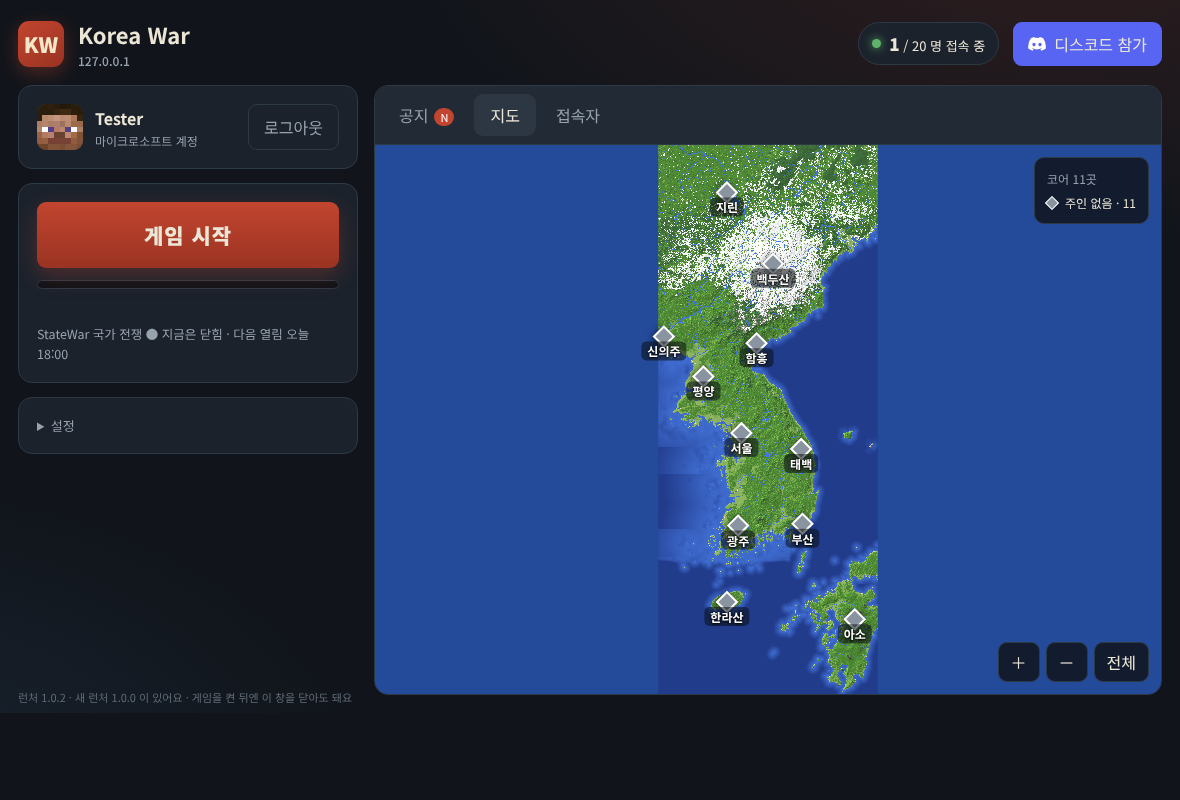
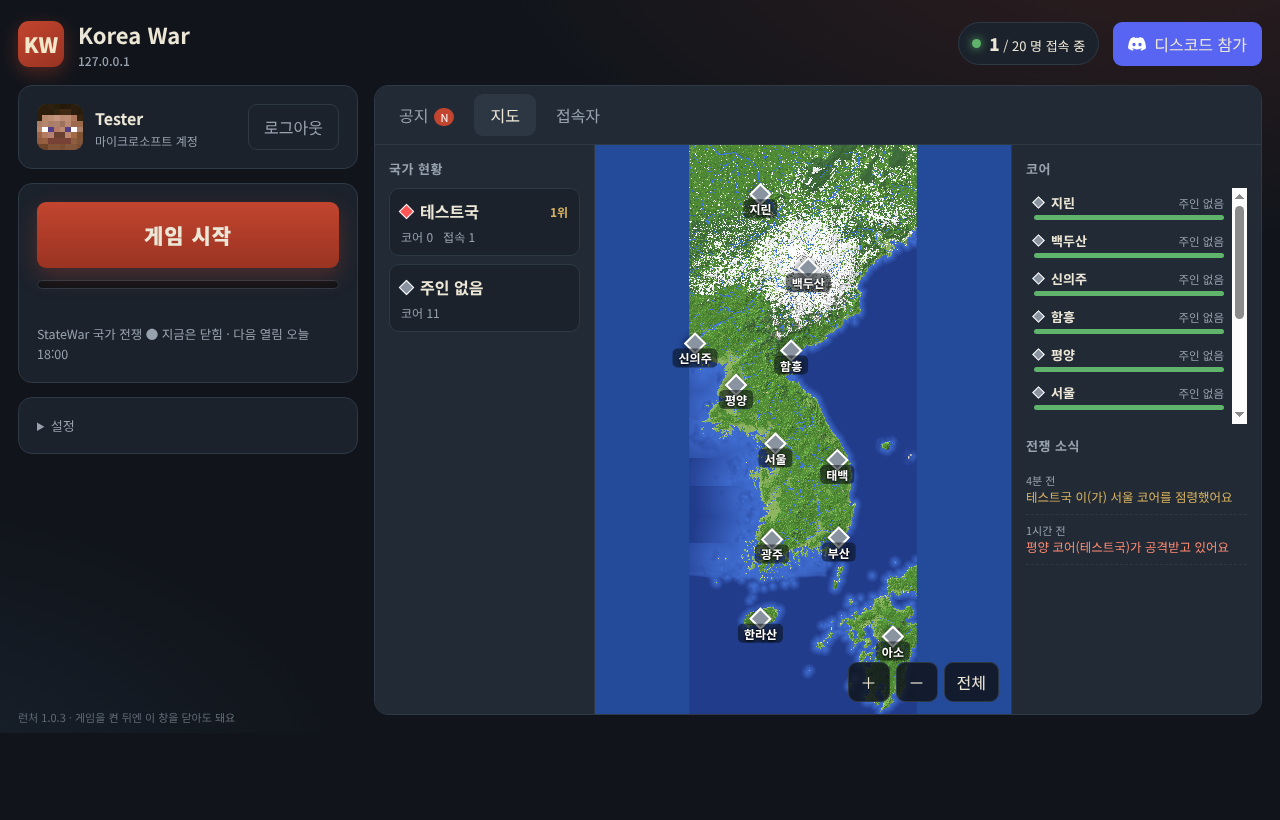
Launcher 1.0.3: nation standings, core list, war feed beside the map
Claude-Session: https://claude.ai/code/session_01RxMUsZayEcA6wpHDDfT3hb

diff --git a/web/index.html b/web/index.html
@@ -8,7 +8,7 @@
 <style>
 :root{--bg:#11151b;--panel:#1b222c;--panel2:#212a35;--line:#2e3946;--ink:#ece6d6;--mute:#97a2ae;--red:#c2452f;--red2:#9a3322;--gold:#d9b25f;--green:#5fb36b;--blurple:#5865f2}
 *{box-sizing:border-box}
-html{background:var(--bg)}
+html{background:var(--bg);color-scheme:dark}
 body{margin:0;min-height:100vh;color:var(--ink);font-family:"Pretendard","Apple SD Gothic Neo","Malgun Gothic","Noto Sans KR","Noto Sans CJK KR",system-ui,sans-serif;
   background:radial-gradient(1100px 520px at 90% -10%,rgba(194,69,47,.17),transparent 60%),radial-gradient(800px 500px at -10% 110%,rgba(79,134,198,.12),transparent 60%),var(--bg);background-attachment:fixed}
 .app{display:grid;grid-template-columns:340px 1fr;grid-template-rows:auto 1fr;gap:16px;padding:18px;height:100vh}
@@ -48,8 +48,25 @@ select,input[type=text]{font:inherit;background:#0e1217;color:var(--ink);border:
 .notice .d{color:var(--mute);font-size:12px}.notice h3{margin:3px 0 6px;font-size:16px}.notice p{margin:0;line-height:1.65;font-size:14px;white-space:pre-wrap;color:#d8d2c3}
 .empty{color:var(--mute);font-size:14px;padding:30px;text-align:center}
 /* 지도 */
-#mapPane{padding:0;position:relative;overflow:hidden;background:#244a9a;cursor:grab}
-#mapPane.drag{cursor:grabbing}
+#mapPane{padding:0;display:grid;grid-template-columns:220px 1fr 250px;overflow:hidden}
+#mapPane[hidden]{display:none}
+#mapBox{position:relative;overflow:hidden;background:#244a9a;cursor:grab}
+#mapBox.drag{cursor:grabbing}
+.side{overflow:auto;padding:14px;background:var(--panel2);border-right:1px solid var(--line)}
+.side:last-child{border-right:0;border-left:1px solid var(--line)}
+.side.right{display:flex;flex-direction:column;overflow:hidden}.side .scroll{flex:1;min-height:0;overflow:auto}
+.side h4{margin:0 0 10px;font-size:13px;color:var(--mute);font-weight:600;letter-spacing:.5px}
+.nat{background:var(--panel);border:1px solid var(--line);border-radius:10px;padding:10px 11px;margin-bottom:8px}
+.nat .t{display:flex;align-items:center;gap:8px;font-weight:700}.nat .t b{width:11px;height:11px;transform:rotate(45deg);border:1px solid #fff}
+.nat .r{color:var(--mute);font-size:12px;margin-top:5px;display:flex;gap:10px}
+.nat .rank{margin-left:auto;color:var(--gold);font-size:12px}
+.ci{display:flex;flex-direction:column;gap:3px;padding:5px 8px;border-radius:8px;cursor:pointer;margin-bottom:1px}
+.ci:hover{background:#2c3743}
+.ci .t{display:flex;align-items:center;gap:8px;font-size:13px;font-weight:600}.ci .t b{width:9px;height:9px;transform:rotate(45deg);border:1px solid #fff;flex:none}
+.ci .t small{margin-left:auto;color:var(--mute);font-weight:400;font-size:11.5px}
+.hp{height:5px;background:#0e1217;border-radius:9px;overflow:hidden}.hp i{display:block;height:100%;background:var(--green)}
+.ev{font-size:12.5px;line-height:1.5;padding:7px 0;border-bottom:1px dashed var(--line)}
+.ev .w{color:var(--mute);font-size:11px}.ev.capture .x{color:var(--gold)}.ev.attack .x{color:#ff8a72}
 #world{position:absolute;left:0;top:0;transform-origin:0 0}
 #world img{display:block;image-rendering:pixelated;user-select:none;-webkit-user-drag:none}
 .core{position:absolute;transform:translate(-50%,-50%);pointer-events:auto}
@@ -110,10 +127,13 @@ footer{position:fixed;left:18px;bottom:8px;color:#5f6a76;font-size:11px}
     </div>
     <div class="pane" id="notice"></div>
     <div class="pane" id="mapPane" hidden>
-      <div id="world"><img id="mapimg" alt=""><div id="marks"></div></div>
-      <div class="legend" id="legend"></div>
-      <div class="mapbtns"><button id="zin">＋</button><button id="zout">－</button><button id="zfit">전체</button></div>
-      <div id="tip"></div>
+      <aside class="side" id="natPanel"><h4>국가 현황</h4><div id="nat"></div></aside>
+      <div id="mapBox">
+        <div id="world"><img id="mapimg" alt=""><div id="marks"></div></div>
+        <div class="mapbtns"><button id="zin">＋</button><button id="zout">－</button><button id="zfit">전체</button></div>
+        <div id="tip"></div>
+      </div>
+      <aside class="side right"><h4>코어</h4><div id="coreList" class="scroll"></div><h4 style="margin-top:12px">전쟁 소식</h4><div id="feed" class="scroll"></div></aside>
     </div>
     <div class="pane" id="players" hidden></div>
   </div>
@@ -175,18 +195,18 @@ async function infoTick(){
 let view={x:0,y:0,k:1}, fitted=false;
 function apply(){$("world").style.transform=`translate(${view.x}px,${view.y}px) scale(${view.k})`;document.querySelectorAll(".core").forEach(m=>m.style.transform=`translate(-50%,-50%) scale(${1/view.k})`)}
 function fitMap(force){
-  const img=$("mapimg"), pane=$("mapPane"); if(!img.naturalWidth||pane.hidden) return; if(fitted&&!force) return;
+  const img=$("mapimg"), pane=$("mapBox"); if(!img.naturalWidth||$("mapPane").hidden) return; if(fitted&&!force) return;
   const k=Math.min(pane.clientWidth/img.naturalWidth,pane.clientHeight/img.naturalHeight);
   view={k,x:(pane.clientWidth-img.naturalWidth*k)/2,y:(pane.clientHeight-img.naturalHeight*k)/2}; fitted=true; apply();
 }
 $("mapimg").onload=()=>{fitted=false;fitMap(true);drawMarks()};
 function zoomAt(f,cx,cy){const nk=Math.max(0.15,Math.min(8,view.k*f));view.x=cx-(cx-view.x)*nk/view.k;view.y=cy-(cy-view.y)*nk/view.k;view.k=nk;apply()}
-$("mapPane").addEventListener("wheel",e=>{e.preventDefault();const r=$("mapPane").getBoundingClientRect();zoomAt(e.deltaY<0?1.2:1/1.2,e.clientX-r.left,e.clientY-r.top)},{passive:false});
+$("mapBox").addEventListener("wheel",e=>{e.preventDefault();const r=$("mapBox").getBoundingClientRect();zoomAt(e.deltaY<0?1.2:1/1.2,e.clientX-r.left,e.clientY-r.top)},{passive:false});
 let drag=null;
-$("mapPane").addEventListener("pointerdown",e=>{if(e.target.closest(".mapbtns,.legend"))return;drag={x:e.clientX,y:e.clientY,vx:view.x,vy:view.y};$("mapPane").classList.add("drag");$("mapPane").setPointerCapture(e.pointerId)});
-$("mapPane").addEventListener("pointermove",e=>{if(!drag)return;view.x=drag.vx+e.clientX-drag.x;view.y=drag.vy+e.clientY-drag.y;apply()});
-$("mapPane").addEventListener("pointerup",()=>{drag=null;$("mapPane").classList.remove("drag")});
-const mid=()=>{const p=$("mapPane");return[p.clientWidth/2,p.clientHeight/2]};
+$("mapBox").addEventListener("pointerdown",e=>{if(e.target.closest(".mapbtns"))return;drag={x:e.clientX,y:e.clientY,vx:view.x,vy:view.y};$("mapBox").classList.add("drag");$("mapBox").setPointerCapture(e.pointerId)});
+$("mapBox").addEventListener("pointermove",e=>{if(!drag)return;view.x=drag.vx+e.clientX-drag.x;view.y=drag.vy+e.clientY-drag.y;apply()});
+$("mapBox").addEventListener("pointerup",()=>{drag=null;$("mapBox").classList.remove("drag")});
+const mid=()=>{const p=$("mapBox");return[p.clientWidth/2,p.clientHeight/2]};
 $("zin").onclick=()=>zoomAt(1.5,...mid()); $("zout").onclick=()=>zoomAt(1/1.5,...mid()); $("zfit").onclick=()=>fitMap(true);
 window.addEventListener("resize",()=>fitMap(true));
 function drawMarks(col){
@@ -197,12 +217,28 @@ function drawMarks(col){
     return `<div class="core" data-i="${i}" style="left:${x}px;top:${y}px"><i style="background:${cl}"></i><span>${esc(c.name)}</span></div>`}).join("");
   document.querySelectorAll(".core").forEach(m=>{
     m.onpointerenter=e=>{const c=info.cores[+m.dataset.i];$("tip").style.display="block";$("tip").innerHTML=`<b>${esc(c.name)}</b><br>주인: ${esc(c.owner||"없음")}<br>체력: ${c.hp} / ${c.maxHp}<br>좌표: ${c.x}, ${c.z}`};
-    m.onpointermove=e=>{const r=$("mapPane").getBoundingClientRect();$("tip").style.left=(e.clientX-r.left+14)+"px";$("tip").style.top=(e.clientY-r.top+14)+"px"};
+    m.onpointermove=e=>{const r=$("mapBox").getBoundingClientRect();$("tip").style.left=(e.clientX-r.left+14)+"px";$("tip").style.top=(e.clientY-r.top+14)+"px"};
     m.onpointerleave=()=>$("tip").style.display="none";
   });
-  const owners={}; (info.cores||[]).forEach(c=>{const k=c.owner||"";owners[k]=(owners[k]||0)+1});
-  $("legend").innerHTML=`<div style="color:var(--mute);margin-bottom:2px">코어 ${(info.cores||[]).length}곳</div>`+Object.keys(owners).sort().map(k=>`<div><b style="background:${k?(col[k]||"#ccc"):"#8a94a0"}"></b>${esc(k||"주인 없음")} · ${owners[k]}</div>`).join("");
+  drawSides(col);
   apply();
+}
+// ---------------- 양옆: 국가 현황 · 코어 목록 · 전쟁 소식
+function ago(t){const m=Math.floor((Date.now()-t)/60000);return m<1?"방금":m<60?m+"분 전":m<1440?Math.floor(m/60)+"시간 전":Math.floor(m/1440)+"일 전"}
+function focusCore(i){const c=info.cores[i],b=info.bounds,img=$("mapimg");if(!c||!img.naturalWidth)return;const p=$("mapBox"),k=Math.max(view.k,1.2);
+  const x=(c.x-b.minX)/b.width*img.naturalWidth,y=(c.z-b.minZ)/b.height*img.naturalHeight;view={k,x:p.clientWidth/2-x*k,y:p.clientHeight/2-y*k};apply();
+  const m=document.querySelector(`.core[data-i="${i}"] i`);if(m){m.animate([{transform:"rotate(45deg) scale(1)"},{transform:"rotate(45deg) scale(2.2)"},{transform:"rotate(45deg) scale(1)"}],{duration:700,iterations:2})}}
+function drawSides(col){
+  const cores=info.cores||[], ps=info.players||[];
+  const nat=(info.nations||[]).map(n=>({n:n.name,c:n.color,cores:cores.filter(x=>x.owner===n.name).length,on:ps.filter(p=>p.nation===n.name).length}));
+  nat.sort((a,b)=>b.cores-a.cores||b.on-a.on);
+  const free=cores.filter(x=>!x.owner).length;
+  $("nat").innerHTML=(nat.length?nat.map((n,i)=>`<div class="nat"><div class="t"><b style="background:${n.c}"></b>${esc(n.n)}<span class="rank">${i+1}위</span></div><div class="r"><span>코어 ${n.cores}</span><span>접속 ${n.on}</span></div></div>`).join(""):`<div class="note">아직 국가가 없어요</div>`)
+    +`<div class="nat"><div class="t"><b style="background:#8a94a0"></b>주인 없음</div><div class="r"><span>코어 ${free}</span></div></div>`;
+  $("coreList").innerHTML=cores.map((c,i)=>({c,i})).sort((a,b)=>(a.c.owner||"~").localeCompare(b.c.owner||"~")).map(({c,i})=>{const cl=c.owner?(col[c.owner]||"#ccc"):"#8a94a0",pct=c.maxHp?Math.round(c.hp*100/c.maxHp):0;
+    return `<div class="ci" onclick="focusCore(${i})"><div class="t"><b style="background:${cl}"></b>${esc(c.name)}<small>${esc(c.owner||"주인 없음")}</small></div><div class="hp"><i style="width:${pct}%;background:${pct<35?"#e0533b":pct<70?"#d9b25f":"#5fb36b"}"></i></div></div>`}).join("");
+  const ev=info.events||[];
+  $("feed").innerHTML=ev.length?ev.slice(0,25).map(e=>`<div class="ev ${esc(e.kind)}"><div class="w">${ago(e.t)}</div><div class="x">${esc(e.text)}</div></div>`).join(""):`<div class="note">아직 소식이 없어요. 코어를 점령하거나 공격하면 여기에 떠요.</div>`;
 }
 // ---------------- 버튼
 $("play").onclick=async()=>{$("play").disabled=true;await post("/api/play");tick()};

diff --git a/main.go b/main.go
@@ -23,7 +23,7 @@ import (
 
 // 빌드할 때 -ldflags "-X main.defaultHost=... -X main.defaultClientID=..." 로 바꿀 수 있음
 var (
-	LauncherVersion  = "1.0.2"
+	LauncherVersion  = "1.0.3"
 	defaultHost      = "210.100.163.165"
 	defaultGamePort  = "25565"
 	defaultFilesPort = "8163"
